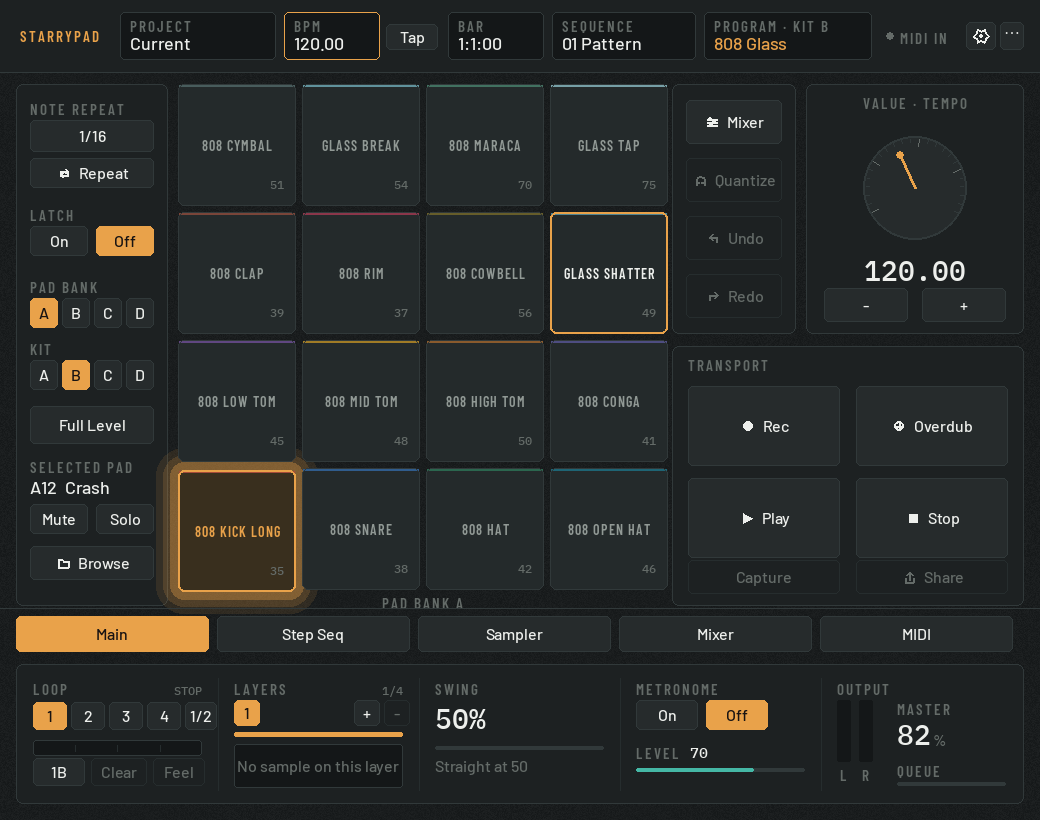
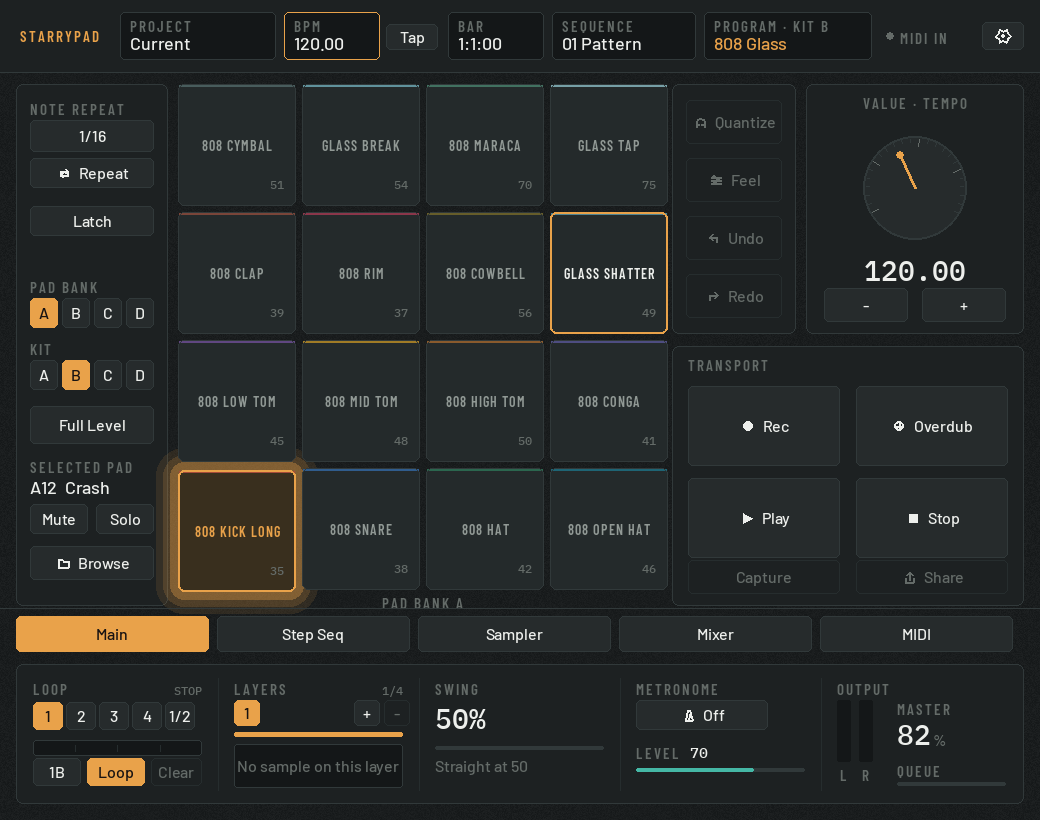
Give every destination one button
Enumerated what the performance surface actually registers and checked where
each button leads. Five destinations had more than one way in:

    Mixer overlay    mixer (right rail) + the Mixer tab
    Project menu     the project field + the ... beside the gear
    Kit switch       the header field + the four Kit buttons
    Metronome        On beside Off
    Note latch       On beside Off

The tab bar is how screens are reached, so the rail's Mixer button goes and Feel
takes the slot, which puts both timing corrections next to Quantize instead of
one in the rail and one in the Loop cell. The header names the loaded program
and no longer also switches it. The ... went; the project field already opened
that menu.

The On/Off pairs were the odd ones out in this app's own vocabulary: Repeat,
Full Level and Loop/Once are all a single button that changes colour. Latch and
Metronome now match, which is two fewer buttons and one fewer thing to explain.

The Sampler tab opened the browser when the selected pad had no sample, which is
a different screen than the one asked for. It now says so and stays put.

Fifty eight buttons to fifty three, and nothing on screen leads anywhere another
button already leads.

diff --git a/drum_pad_native.py b/drum_pad_native.py
@@ -4764,21 +4764,14 @@ class DrumPadNative:
                     self.select_kit(name.removeprefix("kit_"))
                 elif name == "kit_browse":
                     self.switch_kit()
-                elif name == "latch_on":
-                    if not self.note_repeat_latch:
-                        self.toggle_note_repeat_latch()
-                elif name == "latch_off":
-                    if self.note_repeat_latch:
-                        self.toggle_note_repeat_latch()
+                elif name == "latch":
+                    self.toggle_note_repeat_latch()
                 elif name == "full_level":
                     self.toggle_full_level()
                 elif name == "pad_mute":
                     self.toggle_pad_mute()
                 elif name == "pad_solo":
                     self.toggle_pad_solo()
-                elif name == "metro_off":
-                    if self.metronome_enabled:
-                        self.toggle_metronome()
                 elif name == "bpm_field":
                     self.select_value_target("bpm")
                 elif name == "value_swing":
@@ -4793,8 +4786,6 @@ class DrumPadNative:
                     self.nudge_value(1)
                 elif name == "value_knob":
                     self.value_drag_from = pos[1]
-                elif name == "project_more":
-                    self.project_menu_open = True
                 elif name == "loop_stop":
                     self.request_loop_command("STOP")
                 elif name == "loop_record":
@@ -5046,7 +5037,7 @@ class DrumPadNative:
         if name == "Sampler":
             self.sample_editor_open = bool(self.custom_sample_files[self.selected_pad])
             if not self.sample_editor_open:
-                self.browser_open = True
+                self.status = "No sample on this pad - Browse or drop a file onto the window"
         return True
 
     def select_kit(self, slot):
@@ -7298,17 +7289,15 @@ class DrumPadNative:
         pattern = f"{self.active_pattern + 1:02d} Pattern"
         self.draw_field("pattern_scenes", pygame.Rect(552, 12, 144, 48), "Sequence", pattern)
         kit_name = KIT_NAMES.get(self.active_kit, self.active_kit)
-        self.draw_field("kit", pygame.Rect(704, 12, 168, 48), f"Program \u00b7 Kit {self.active_kit}",
+        self.draw_field(None, pygame.Rect(704, 12, 168, 48), f"Program \u00b7 Kit {self.active_kit}",
                         kit_name, value_color=theme.ACCENT)
 
         name, dot, _hint = self.midi_activity() if self.midi_input else ("No MIDI", theme.DANGER, "")
         pygame.draw.circle(self.screen, dot, (890, 36), 4)
         self.screen.blit(self.label_font.render("MIDI in", True, theme.INK_3), (900, 29))
 
-        self.buttons["settings"] = pygame.Rect(966, 22, 30, 28)
+        self.buttons["settings"] = pygame.Rect(982, 22, 42, 28)
         self.draw_button(self.buttons["settings"], "", icon="gear")
-        self.buttons["project_more"] = pygame.Rect(1000, 22, 24, 28)
-        self.draw_button(self.buttons["project_more"], "\u2026")
 
     def draw_field(self, button, rect, caption, value, active=False, value_color=None):
         """A caption over a value. Registers a button when the cell is clickable."""
@@ -7974,17 +7963,15 @@ class DrumPadNative:
             x = track.x + round(track.width * loop["phase"] / total_beats)
             pygame.draw.line(self.screen, theme.ACCENT, (x, track.top + 1), (x, track.bottom - 1), 2)
 
-        self.buttons["loop_bars"] = pygame.Rect(rect.x, rect.bottom - 30, 36, 28)
-        self.buttons["loop_repeat"] = pygame.Rect(rect.x + 39, rect.bottom - 30, 44, 28)
-        self.buttons["loop_clear"] = pygame.Rect(rect.x + 86, rect.bottom - 30, 44, 28)
-        self.buttons["loop_quantize_feel"] = pygame.Rect(rect.x + 133, rect.bottom - 30, 36, 28)
+        self.buttons["loop_bars"] = pygame.Rect(rect.x, rect.bottom - 30, 48, 28)
+        self.buttons["loop_repeat"] = pygame.Rect(rect.x + 54, rect.bottom - 30, 58, 28)
+        self.buttons["loop_clear"] = pygame.Rect(rect.x + 118, rect.bottom - 30, 51, 28)
         self.draw_button(self.buttons["loop_bars"], f"{loop['bars']}B")
         self.draw_button(
             self.buttons["loop_repeat"], "Loop" if self.loop_repeat else "Once",
             active=self.loop_repeat,
         )
         self.draw_button(self.buttons["loop_clear"], "Clear", enabled=bool(loop["events"]))
-        self.draw_button(self.buttons["loop_quantize_feel"], "Feel", enabled=bool(loop["events"]))
 
     def draw_program_cell(self, rect):
         y = self.cell_caption(rect, "Program")
@@ -8108,10 +8095,11 @@ class DrumPadNative:
 
     def draw_metronome_cell(self, rect):
         y = self.cell_caption(rect, "Metronome")
-        self.buttons["metro"] = pygame.Rect(rect.x, y, 62, 30)
-        self.buttons["metro_off"] = pygame.Rect(rect.x + 70, y, 62, 30)
-        self.draw_button(self.buttons["metro"], "On", danger=self.metronome_enabled)
-        self.draw_button(self.buttons["metro_off"], "Off", active=not self.metronome_enabled)
+        self.buttons["metro"] = pygame.Rect(rect.x, y, 132, 30)
+        self.draw_button(
+            self.buttons["metro"], "On" if self.metronome_enabled else "Off",
+            danger=self.metronome_enabled, icon="metronome",
+        )
         self.buttons["value_metronome"] = pygame.Rect(rect.x, y + 40, rect.width, 40)
         active = self.value_target == "metronome"
         self.screen.blit(self.label_font.render("Level", True, theme.INK_3), (rect.x, y + 44))
@@ -8181,11 +8169,8 @@ class DrumPadNative:
         self.buttons["repeat"] = pygame.Rect(x0, 158, width, 30)
         self.draw_button(self.buttons["repeat"], "Repeat", active=self.repeat_enabled, icon="repeat")
 
-        self.screen.blit(self.label_font.render("Latch", True, theme.INK_3), (x0, 206))
-        self.buttons["latch_on"] = pygame.Rect(x0, 226, 58, 30)
-        self.buttons["latch_off"] = pygame.Rect(x0 + 66, 226, 58, 30)
-        self.draw_button(self.buttons["latch_on"], "On", danger=self.note_repeat_latch)
-        self.draw_button(self.buttons["latch_off"], "Off", active=not self.note_repeat_latch)
+        self.buttons["latch"] = pygame.Rect(x0, 206, width, 30)
+        self.draw_button(self.buttons["latch"], "Latch", danger=self.note_repeat_latch)
 
         self.screen.blit(self.label_font.render("Pad bank", True, theme.INK_3), (x0, 278))
         for column, bank in enumerate(PAD_BANKS):
@@ -8221,8 +8206,8 @@ class DrumPadNative:
         pygame.draw.rect(self.screen, theme.RULE, actions, width=1, border_radius=theme.RADIUS["panel"])
         loop = self.loop_snapshot()
         for row, (key, label, icon, enabled) in enumerate((
-            ("mixer", "Mixer", "sliders", True),
             ("loop_quantize", "Quantize", "magnet", bool(loop["events"])),
+            ("loop_quantize_feel", "Feel", "sliders", bool(loop["events"])),
             ("loop_undo", "Undo", "undo", loop["can_undo"]),
             ("loop_redo", "Redo", "redo", loop["can_redo"]),
         )):

diff --git a/README.md b/README.md
@@ -218,6 +218,18 @@ They are listed because knowing what is absent is worth more than discovering it
 The MIDI tab currently opens the existing Settings panel, and the Sampler tab
 opens the sample editor or the browser, rather than being screens of their own.
 
+## One control per thing
+
+Every destination on the performance surface has exactly one button. The mixer
+is reached from its tab, not also from the right rail; the project menu from the
+project field, not also from a `...` beside it; the kit from the four slot
+buttons, while the header names the loaded program without also switching it.
+Booleans are one button that changes colour, the way `Repeat` and `Full Level`
+already worked, rather than an On button beside an Off button.
+
+The four `Kit` buttons are the exception that proves it: four buttons for four
+different kits is direct selection, not four ways to the same place.
+
 ## Design
 
 | Module | Holds |
